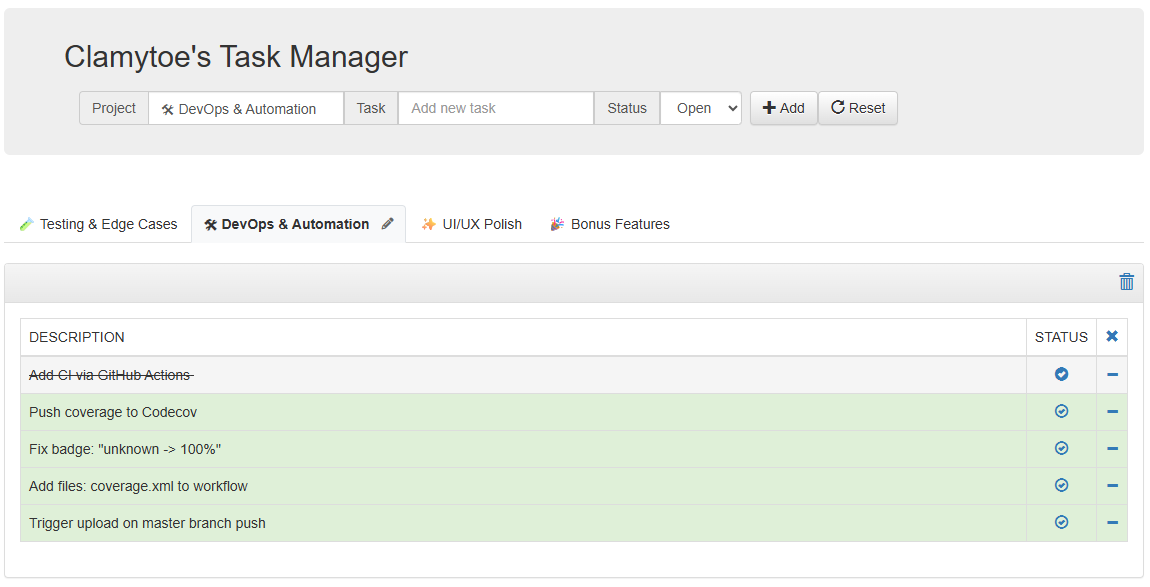
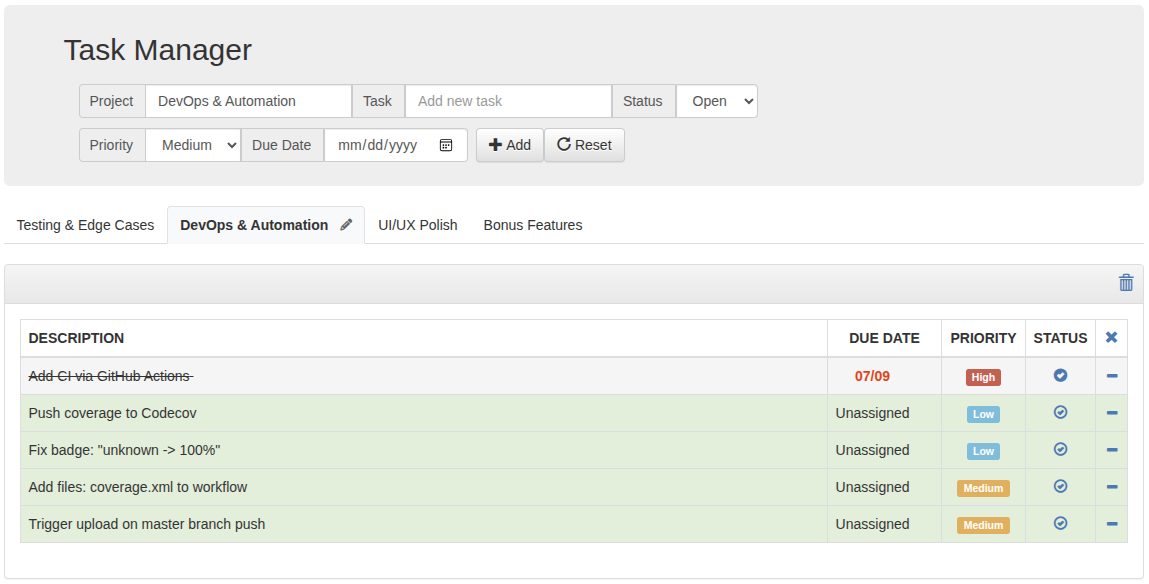
Added new UI elements to README.md

diff --git a/README.md b/README.md
@@ -46,6 +46,18 @@ Describe the task that you need to accomplish.
 
 The task can be entered as open or close.
 
+#### Task Priority
+
+![Task Priority](img/priority.png)
+
+You can select priorities between `Low`, `Medium`, and `High`. It defaults to **Medium**.
+
+#### Task Due Date
+
+![Task Due Date](img/due-date.png)
+
+You can set a due date for your task. If the date passes, it will turn red in the task listing.
+
 #### Controls
 
 ![Controls](img/controls.png)
